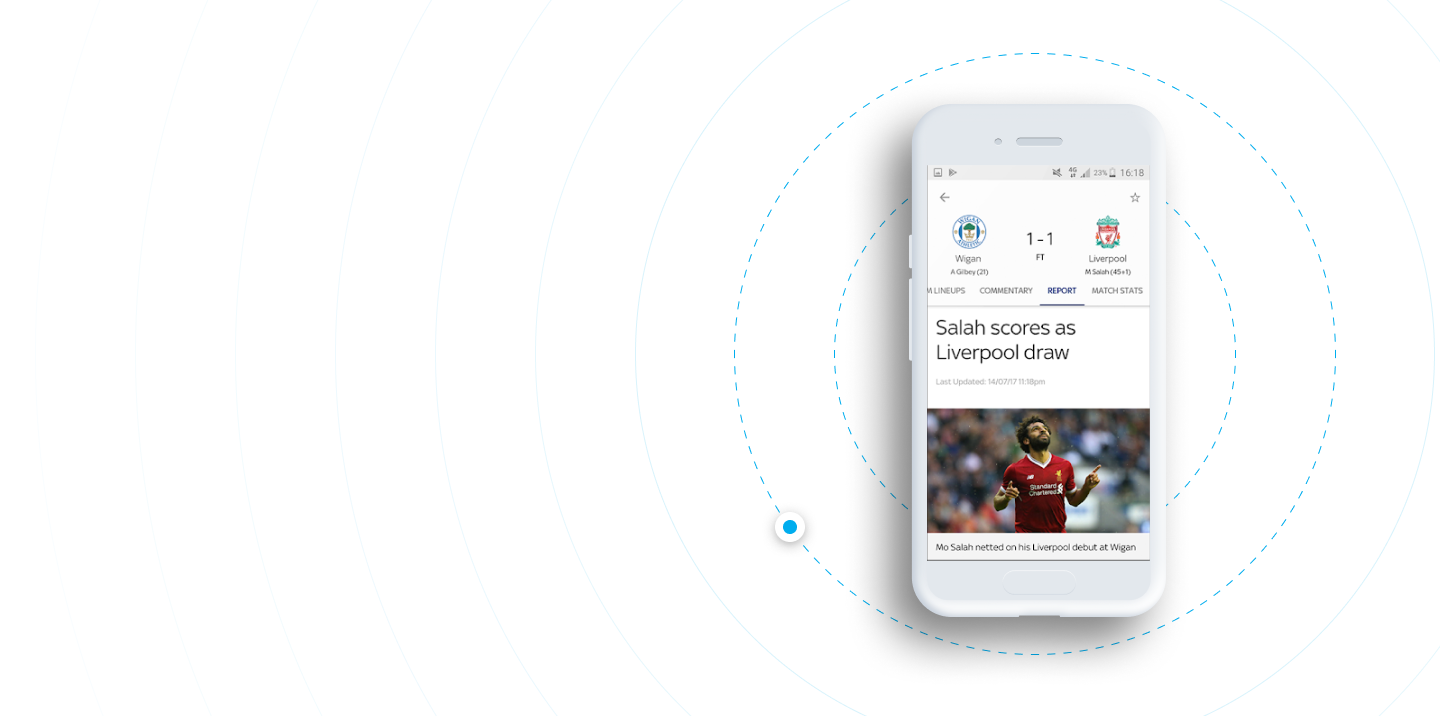
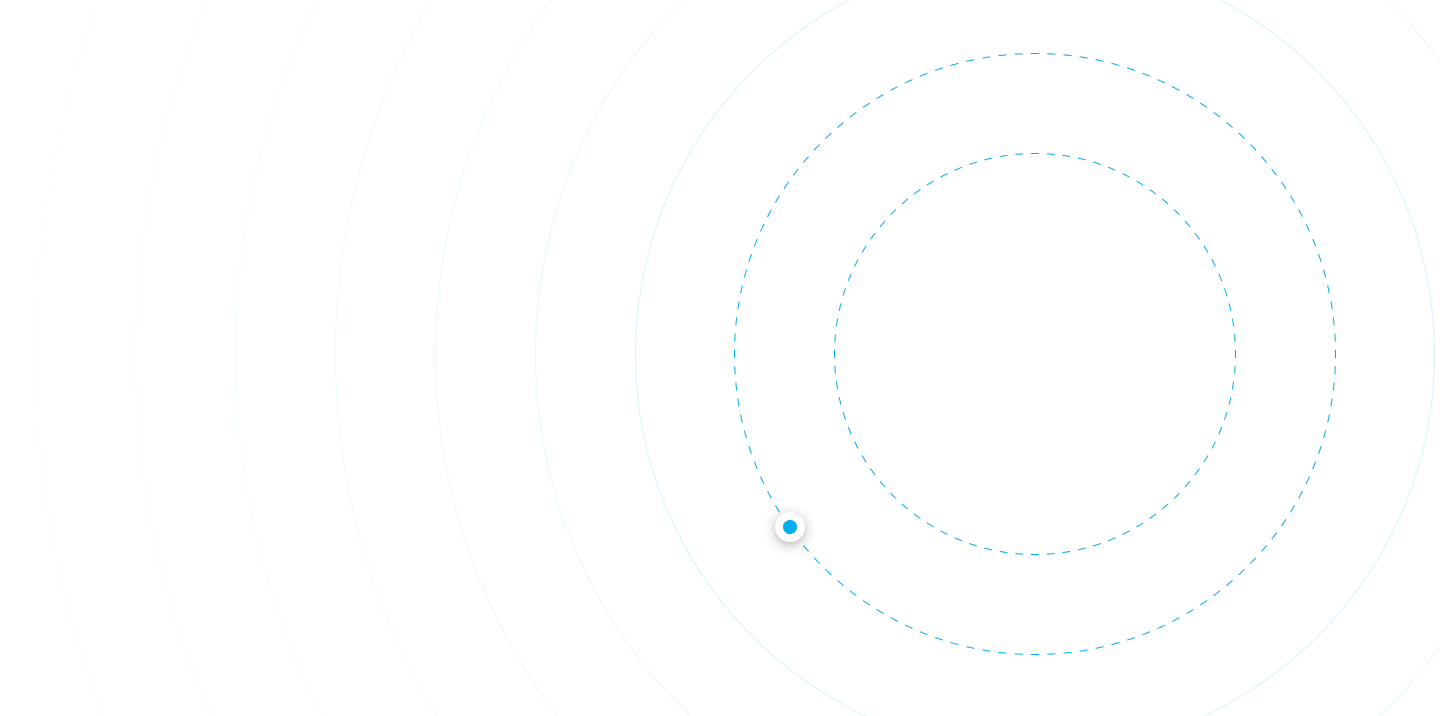
section get started responsive completed

Changed region(s): [[0.5938, 0.1229, 0.8125, 0.9218]]

diff --git a/homework9/styles.css b/homework9/styles.css
@@ -461,6 +461,10 @@ html, body{
     cursor: pointer;
 }
 
+.gomobile-btn{
+    display: none;
+}
+
 .cart-btn{
     padding-top: 20px;
     position: relative;
@@ -484,4 +488,99 @@ html, body{
     line-height: 14px;
     justify-content: center;
     padding-top: 3px;
+}
+
+@media (min-width: 1050px) {
+    .get-started{
+        display: flex;
+        background: url(./img/getstarted-desktop-bg.png);
+        background-position: right;
+        background-size: cover;
+        background-repeat: no-repeat;
+        width: 100%;
+    }
+
+    .get-started__wrapper{
+        padding-top: 100px;
+        display: flex;
+        flex-direction: column;
+        text-align: left;
+        margin-left: 10%;
+        width: 35%;
+    }
+    
+    .get-started__link, .learn-more{
+        padding-top: 50px;
+    }
+
+    .get-started__pics{
+        margin-right: 17%;
+    }
+
+    .bg-mobile-pic{
+        display: none; 
+       }
+
+    .bg-desktop-pic{
+        display: initial;
+        padding-top: 4%;
+       }
+
+    .notification-btn{
+        width: 91px;
+        height: 91px;
+        border-radius: 50%;
+        top: 12%;
+        left: calc(50% - 145px);
+    }
+
+    .notify-btn{
+        padding-top: 20px;
+    }
+
+    .blue-circle{
+        width: 25px;
+        height: 25px;
+        top: 15px;
+        right: 15px;
+    }
+
+    .notify-num{
+        font-size: 15px;
+        line-height: 18px;
+        padding-top: 3px;
+    }
+
+    .green-circle{
+        display: none;
+    }
+    
+    .cart-num{
+        display: none;
+    }
+
+    .cart-btn{
+        display: none;
+    }
+
+    .bottom-right-btn{
+        background: #FFFFFF;
+        box-shadow: 0px 2.47691px 12.3845px rgba(0, 0, 0, 0.25), 0px 1.98153px 4.95382px rgba(51, 51, 51, 0.1);
+        border-radius: 50%;
+        position: absolute;
+        cursor: pointer;
+        width: 91px;
+        height: 91px;
+        bottom: 24%;
+        left: calc(50% + 100px);
+    }
+
+    .gomobile-btn{
+        display: initial;
+        position: relative;
+        padding-top: 23px;
+    }
+    
+
+
 }

diff --git a/homework9/index.html b/homework9/index.html
@@ -116,7 +116,7 @@
             <div class="get-started__pics__wrapper"> 
                  <div class="get-started__bg-image">
                      <div class="get-started__bg-pic">
-                        <img src="./img/getstarted-desktop-bg.png" alt="background image" class="bg-desktop-pic" />
+                        <img src="./img/phone-desktop.png" alt="background image" class="bg-desktop-pic" />
                         <img src="./img/getstarted-mobile-bg.png" alt="background image" class="bg-mobile-pic" />
                         <a href="#!" class="notification-link">  
                             <div class="notification-btn">
@@ -129,6 +129,7 @@
                          <a href="#!" class="right-btn-link">  
                             <div class="bottom-right-btn">
                                 <img src="./img/cart.svg" alt="your orders cart" class="cart-btn" />
+                                <img src="./img/go-mobile.svg" alt="switch to mobile version" class="gomobile-btn" />
                                     <div class="green-circle">
                                         <span class="cart-num">7</span>
                                     </div>
